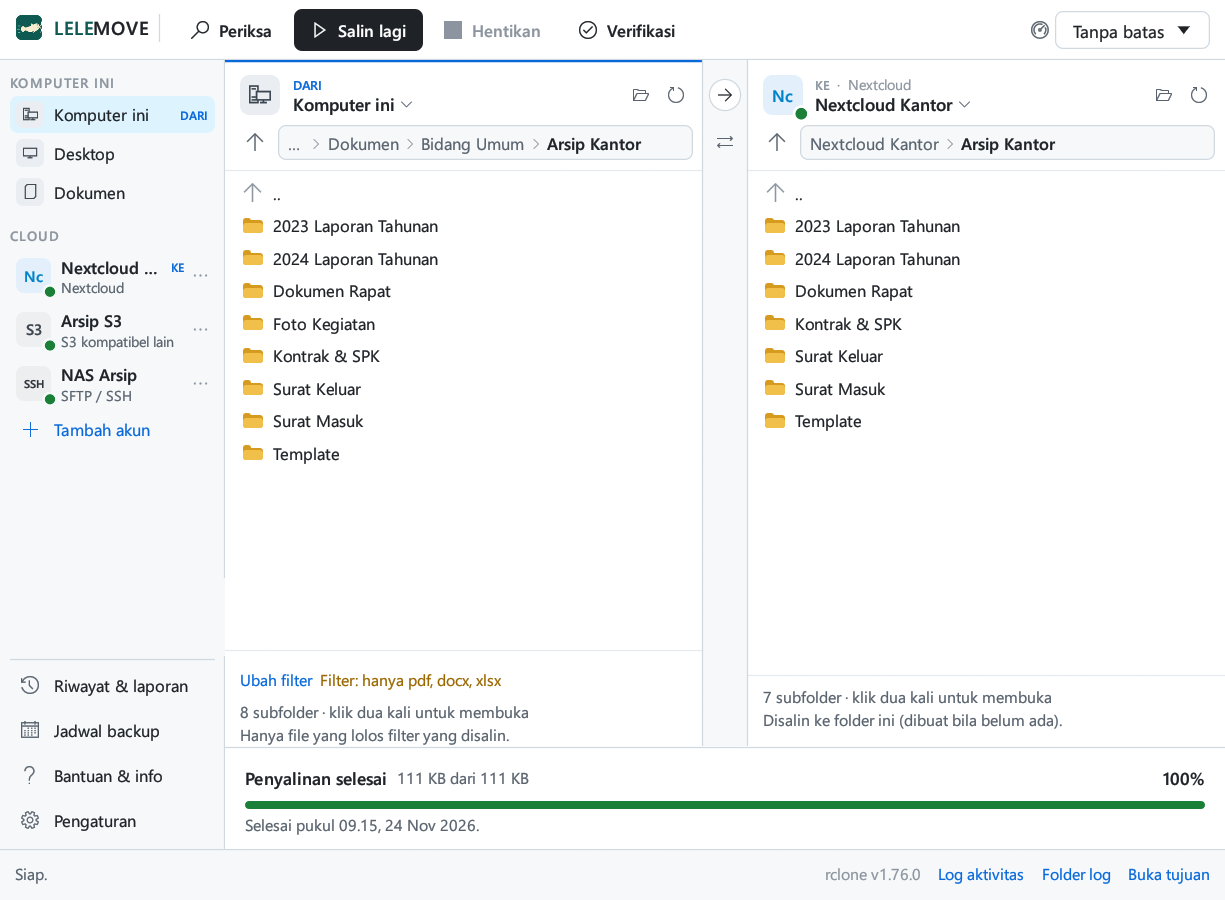
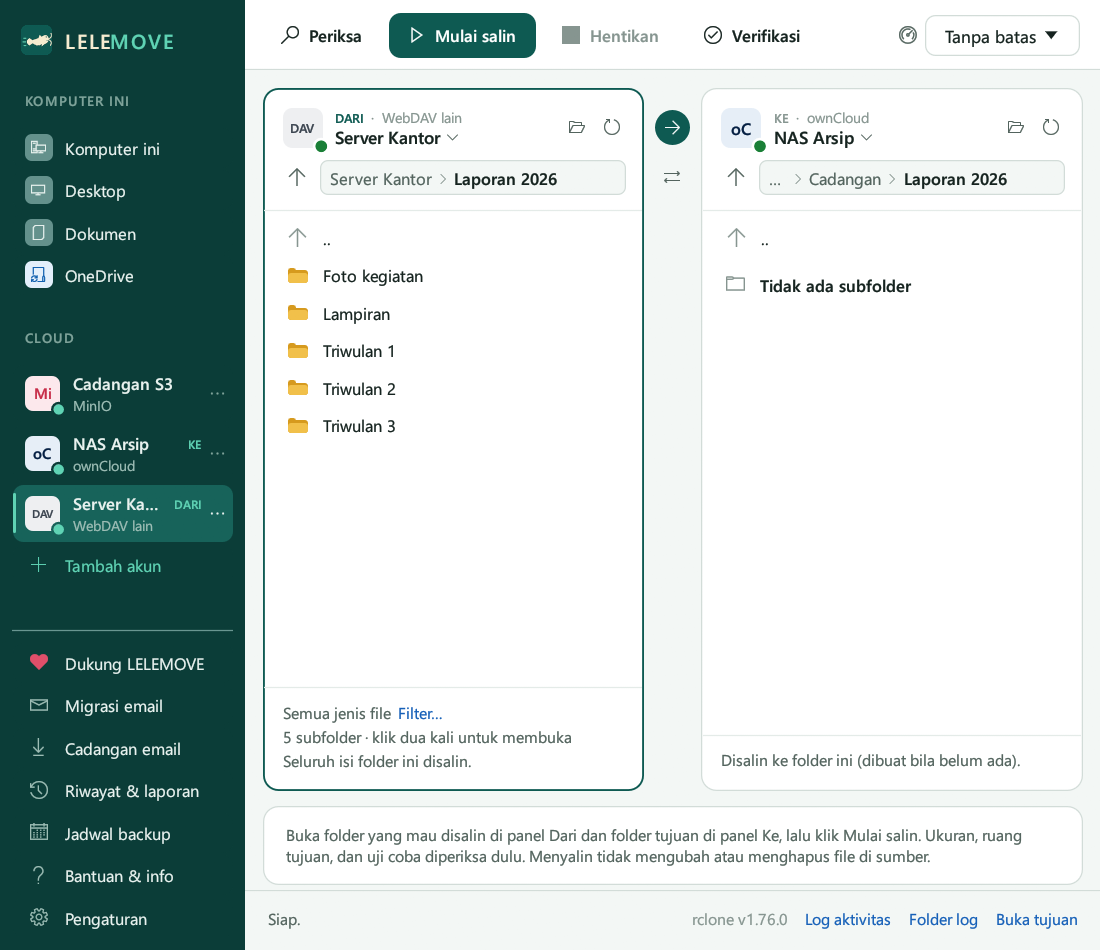
Rilis 2.5.0: tampilan kolam
- Versi 2.5.0 (Cargo.toml, plugin.json, Cargo.lock).
- Catatan rilis di catatan-rilis/2.5.0.md.
- Riwayat versi di README (kedua ejaan).
- Tangkapan layar README dengan tampilan baru (data contoh).

diff --git a/catatan-rilis/2.5.0.md b/catatan-rilis/2.5.0.md
@@ -1,0 +1,38 @@
+LELEMOVE berganti tampilan: warna dari ikonnya sendiri, dan teks yang lebih lega di semua tempat.
+
+## Yang baru
+
+- **Tampilan "kolam".** Warna antarmuka kini diambil dari ikon LELEMOVE (hijau kolam, mint, krem), menggantikan putih-abu yang lama.
+  - Daftar lokasi di kiri berlatar gelap setinggi jendela, dengan logo di kepalanya. Lokasi yang sedang dibuka ditandai bilah mint.
+  - Panel *Dari* dan *Ke* berupa kartu; panel aktif bergaris tepi hijau, dan arah salin ditunjukkan lencana panah di antaranya.
+  - Tombol utama berwarna hijau kolam.
+- **Teks tidak lagi menempel ke tepi.** Jarak di dialog, kotak isian, daftar lokasi, daftar folder, dan bilah status dilonggarkan. Jendela bawaan sedikit lebih lebar.
+- **Membuka LELEMOVE dua kali** kini menampilkan jendela yang sudah terbuka, bukan kotak pesan.
+- **Pembaca layar** kini bisa membaca tombol dan baris yang digambar sendiri (daftar lokasi, tombol ikon, daftar folder).
+- **Installer pembaruan lama dibersihkan sendiri** dari folder unduhan setelah terpasang.
+- LELEMOVE kini berlisensi **MIT**, dan ada ringkasan bahasa Inggris di `README.en.md`.
+
+## Yang diperbaiki
+
+- Tombol di dasar dialog bisa mengambang jauh dari isinya setelah membuka dialog lain yang lebih tinggi. Kini selalu tepat di bawah isi.
+- *Unduh & pasang* memperbarui pemasangan tempat LELEMOVE berjalan, bukan yang tercatat di registry.
+
+## Pasang / perbarui
+
+Dari versi 2.4.2 ke atas: buka **Bantuan & info > Tentang > Periksa pembaruan**, lalu **Unduh & pasang**.
+
+**Windows 10/11 64-bit:** unduh **`LELEMOVE-Setup-2.5.0.exe`** di bawah, jalankan, lalu klik *Pasang* atau *Perbarui*. Akun, pengaturan, jadwal, dan riwayat dari versi sebelumnya tetap terbaca. Installer belum ditandatangani secara digital: bila SmartScreen memperingatkan, klik *More info* > *Run anyway*.
+
+**macOS 11 ke atas (beta):** unduh **`LELEMOVE-2.5.0-macOS.dmg`**, buka, lalu seret **LELEMOVE** ke **Applications**. Aplikasi belum ditandatangani dengan Apple Developer ID, jadi macOS menahannya saat pertama dibuka: buka *Pengaturan Sistem > Privasi & Keamanan*, gulir ke bawah, lalu klik *Buka Saja*. Atau lewat Terminal: `xattr -dr com.apple.quarantine /Applications/LELEMOVE.app`.
+
+Kedua berkas **tidak membawa client ID Google**; buat client ID sendiri lewat *Pengaturan > Client ID Google* agar penyalinan Google Drive tidak macet ([panduan](https://github.com/fauzirpl/lelemove#penyalinan-macet-pakai-client-id-google-sendiri)).
+
+Mulai versi ini, installer Windows dan .dmg macOS dibangun dan diuji otomatis di GitHub Actions dari kode sumber di repositori ini.
+
+## Checksum
+
+```
+@@CHECKSUM@@
+```
+
+Nama layanan yang disebut adalah merek dagang pemiliknya masing-masing. LELEMOVE tidak berafiliasi dengan penyedia layanan mana pun maupun dengan Lalamove.

diff --git a/README.md b/README.md
@@ -818,6 +818,7 @@ ada djaminan apa poen. rclone dan poestaka lain jang ikoet dibawa memakai lisens
 
 | Versi | Isi oetama |
 |---|---|
+| [2.5.0](https://github.com/fauzirpl/lelemove/releases/tag/v2.5.0) | Tampilan baroe bertema kolam: daftar lokasi gelap, panel berbentoek kartoe, djarak teks lebih lega; tombol dialog tidak lagi mengambang djaoeh dari isinja; nama tombol terbatja pembatja lajar; memboeka LELEMOVE doea kali menampilkan djendela jang soedah ada; lisensi MIT |
 | [2.4.4](https://github.com/fauzirpl/lelemove/releases/tag/v2.4.4) | Pembaroean mentjoba oelang sendiri ketika sambungan ke GitHub gagal (misalnja DNS poetoes sesaat), sampai lima kali; oendoehan jang terpoetoes dioelang |
 | [2.4.3](https://github.com/fauzirpl/lelemove/releases/tag/v2.4.3) | Perbaikan *Unduh & pasang*: installer menoenggoe LELEMOVE benar-benar tertoetoep sebeloem mengganti berkas (sebeloemnja kadang gagal dengan pesan berkas sedang dipakai) |
 | [2.4.2](https://github.com/fauzirpl/lelemove/releases/tag/v2.4.2) | Tombol *Periksa pembaruan* / *Unduh & pasang* di *Bantuan & info > Tentang* (installer ditjek SHA-256-nja, LELEMOVE diboeka lagi sendiri); tjatatan izin admin oentoek akoen Outlook kantor |

diff --git a/alat/readme/4.md b/alat/readme/4.md
@@ -127,6 +127,7 @@ ada djaminan apa poen. rclone dan poestaka lain jang ikoet dibawa memakai lisens
 
 | Versi | Isi oetama |
 |---|---|
+| [2.5.0](https://github.com/fauzirpl/lelemove/releases/tag/v2.5.0) | Tampilan baroe bertema kolam: daftar lokasi gelap, panel berbentoek kartoe, djarak teks lebih lega; tombol dialog tidak lagi mengambang djaoeh dari isinja; nama tombol terbatja pembatja lajar; memboeka LELEMOVE doea kali menampilkan djendela jang soedah ada; lisensi MIT |
 | [2.4.4](https://github.com/fauzirpl/lelemove/releases/tag/v2.4.4) | Pembaroean mentjoba oelang sendiri ketika sambungan ke GitHub gagal (misalnja DNS poetoes sesaat), sampai lima kali; oendoehan jang terpoetoes dioelang |
 | [2.4.3](https://github.com/fauzirpl/lelemove/releases/tag/v2.4.3) | Perbaikan *Unduh & pasang*: installer menoenggoe LELEMOVE benar-benar tertoetoep sebeloem mengganti berkas (sebeloemnja kadang gagal dengan pesan berkas sedang dipakai) |
 | [2.4.2](https://github.com/fauzirpl/lelemove/releases/tag/v2.4.2) | Tombol *Periksa pembaruan* / *Unduh & pasang* di *Bantuan & info > Tentang* (installer ditjek SHA-256-nja, LELEMOVE diboeka lagi sendiri); tjatatan izin admin oentoek akoen Outlook kantor |

diff --git a/README-ejaan-sekarang.md b/README-ejaan-sekarang.md
@@ -789,6 +789,7 @@ ada jaminan apa pun. rclone dan pustaka lain yang ikut dibawa memakai lisensinya
 
 | Versi | Isi utama |
 |---|---|
+| [2.5.0](https://github.com/fauzirpl/lelemove/releases/tag/v2.5.0) | Tampilan baru bertema kolam: daftar lokasi gelap, panel berbentuk kartu, jarak teks lebih lega; tombol dialog tidak lagi mengambang jauh dari isinya; nama tombol terbaca pembaca layar; membuka LELEMOVE dua kali menampilkan jendela yang sudah ada; lisensi MIT |
 | [2.4.4](https://github.com/fauzirpl/lelemove/releases/tag/v2.4.4) | Pembaruan mencoba ulang sendiri ketika sambungan ke GitHub gagal (misalnya DNS putus sesaat), sampai lima kali; unduhan yang terputus diulang |
 | [2.4.3](https://github.com/fauzirpl/lelemove/releases/tag/v2.4.3) | Perbaikan *Unduh & pasang*: installer menunggu LELEMOVE benar-benar tertutup sebelum mengganti berkas (sebelumnya kadang gagal dengan pesan berkas sedang dipakai) |
 | [2.4.2](https://github.com/fauzirpl/lelemove/releases/tag/v2.4.2) | Tombol *Periksa pembaruan* / *Unduh & pasang* di *Bantuan & info > Tentang* (installer dicek SHA-256-nya, LELEMOVE dibuka lagi sendiri); catatan izin admin untuk akun Outlook kantor |
